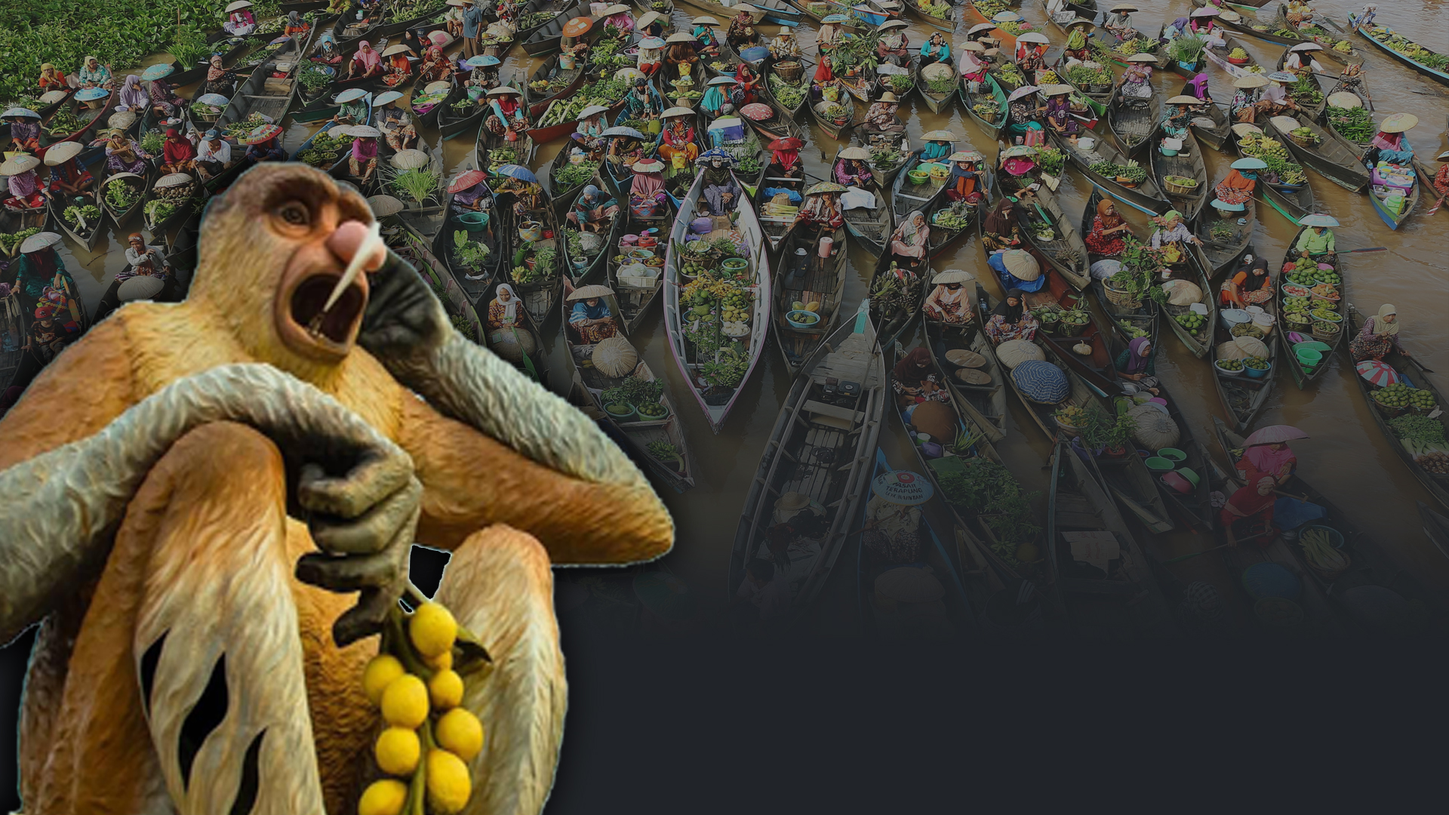
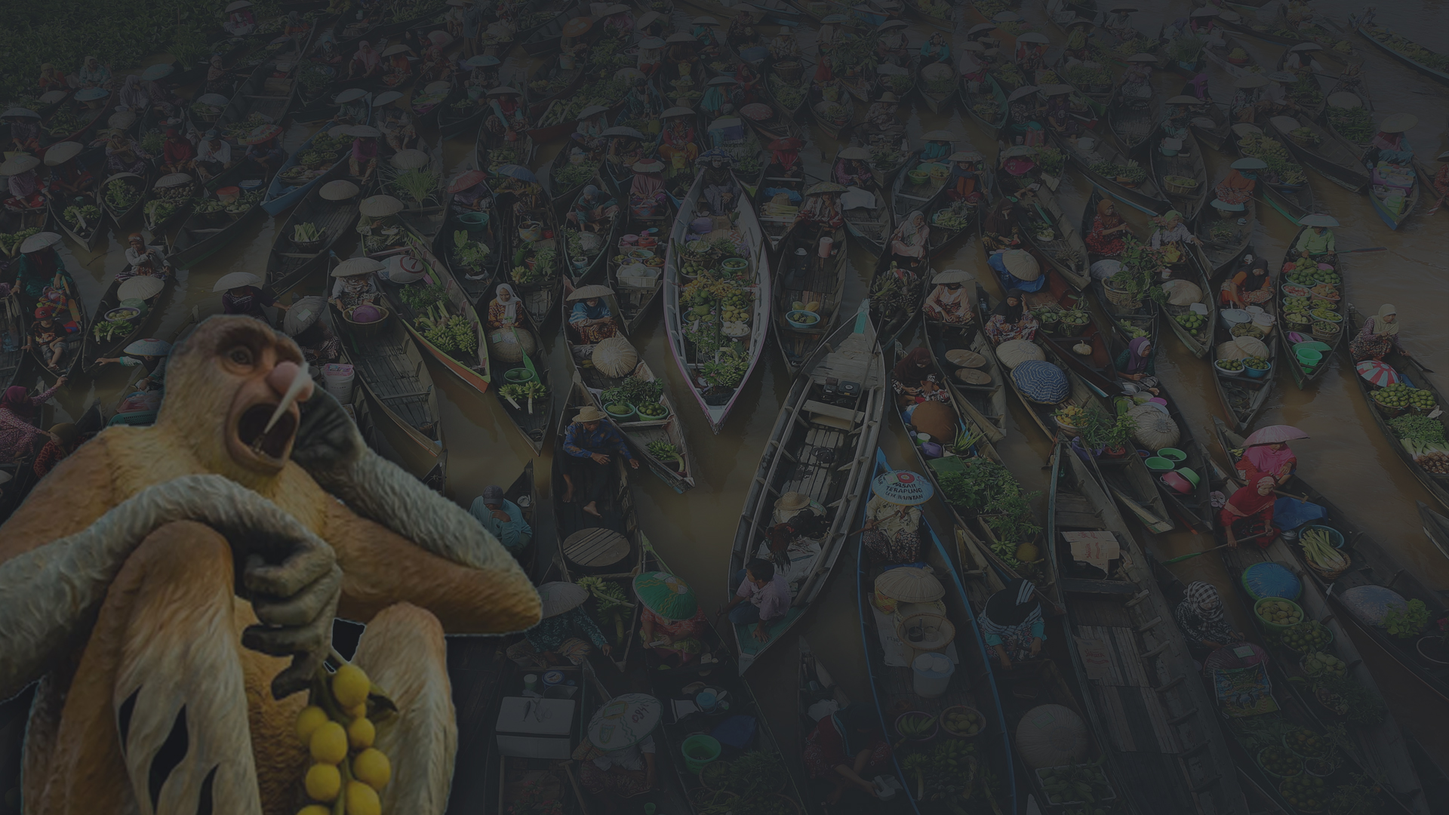
Perubahan tampilan depan

diff --git a/application/views/site/gigaland/home.php b/application/views/site/gigaland/home.php
@@ -63,9 +63,6 @@
                                     <li>
                                         <a href="#event" style="color:#F4AD39;">Event<span></span></a>
                                     </li>
-                                    <li>
-                                        <a href="#abstract" style="color:#F4AD39;">Abstract<span></span></a>
-                                    </li>
 
                                 </ul>
                                 <!-- mainmenu close -->
@@ -84,7 +81,7 @@
     <!-- content begin -->
     <div class="no-bottom no-top" id="content">
         <div id="top"></div>
-        <section id="section-hero" class="no-bottom" data-bgimage="url(<?= base_url('themes/gigaland'); ?>/images/background/13-1.jpg) bottom">
+        <section id="section-hero" class="no-bottom" data-bgimage="url(<?= base_url('themes/gigaland'); ?>/images/background/13.jpg) bottom">
             <div class="container" style="height: 800px;">
                 <div id="items-carousel-big" class="owl-carousel">
                     <!-- carousel item -->
@@ -92,10 +89,14 @@
                         <div class="row align-items-center">
                             <div class="col-lg-12 wow fadeInRight" data-wow-delay=".5s">
                                 <div class="d-desc text-center">
-                                    <img style="text-align: center;" src="<?= base_url('themes/gigaland'); ?>/images/all-logo.png" style="width:600px;" alt="">
-                                    <h1 style="color:#F4AD39; text-shadow: 3px 2px 1px black;">20<sup>th</sup> Asian Oceanian Myology Center Meeting in Conjunction with National Scientific Meeting PERDOSSI 2022</h1><br>
-
-                                    <a href="<?= base_url('themes/gigaland'); ?>/images/1staomcpin.pdf" target="blank" class="btn-main btn-lg" style="background-color:#F4AD39; color:black;">1 <sup>st</sup> Announcement</a>&nbsp;
+                                    <img style="text-align: center;" src="<?= base_url('themes/gigaland'); ?>/images/all-logo.png" style="width:800px;" alt="">
+                                    <div class="col-md-12">
+                                        <h2 style="color:#F4AD39; text-shadow: 3px 2px 1px black;">20<sup>th</sup> Asian Oceanian Myology Center Meeting in Conjunction with National Scientific Meeting <br>
+                                            PERDOSSI 2022<br>
+                                        </h2>
+                                        <p style="color:#F4AD39; text-shadow: 3px 2px 1px black; font-size: 25px;">June 9<sup>th</sup> - 12<sup>th</sup> , 2022 Virtual Meeting</p>
+                                    </div>
+                                    <a href="<?= base_url('themes/gigaland'); ?>/images/1staomcpin.pdf" target="blank" class="btn-main btn-lg" style="background-color:#F4AD39; color:black;">Download 1 <sup>st</sup> Announcement here</a>&nbsp;
                                     <div class="spacer-10">
                                         <div class="d-buttons">
 
@@ -323,12 +324,12 @@
                         <h1 style="color:#F4AD39; margin-top:10px;">How to Register</h1>
                         <td>
                             <p class="" style="color:#F4AD39; font-size:14px; text-align:left;">
-                                1. Click <b>Register</b>, and fill your profile <br>
-                                2. Choose you event(and or submit your abstract)<br>
-                                3. Pay via our online banking payment<br>
-                                4. Download your registration proof, and See your<br>
-                                <li style="color:#F4AD39; text-align:left; font-size:14px;">1 Account 1 email per user</li>
-                                <li style="color:#F4AD39; text-align:left; font-size:14px;">E-Certificate will be delivered to registered email</li><br>
+                                1. Click <b>Register</b>, and fill in your profile <br>
+                                2. Choose your event (and or submit your abstract)<br>
+                                3. Pay via our online payment gateway<br>
+                                4. Download your registration receipt, and See you on the date<br>
+                                <li style="color:#F4AD39; text-align:left; font-size:14px;">1 email per account</li>
+                                <li style="color:#F4AD39; text-align:left; font-size:14px;">E-certificate will be sent to the registered email</li><br>
                                 <a href="<?= base_url('member/register'); ?>" class="btn-main btn-fullwidth" style="background-color:#F4AD39; color:black;"><b>Don't have account? Click Here to Register</b></a>
                             </p>
                         </td>
@@ -356,12 +357,12 @@
                             </li>
                             <li class="nav-item mt-2" data-aos="fade-up" data-aos-delay="100">
                                 <a class="nav-link" data-bs-toggle="tab" href="#tab-3">
-                                    <h4 style="color:#F4AD39;">Scientific Template : Abstract Template, Fullpaper Template, and PPT Template, also Guideline</h4>
+                                    <h4 style="color:#F4AD39;">Scientific Guideline</h4>
                                 </a>
                             </li>
                             <li class="nav-item mt-2" data-aos="fade-up" data-aos-delay="100">
                                 <a class="nav-link" data-bs-toggle="tab" href="#tab-4">
-                                    <h4 style="color:#F4AD39;">Remarks Chairman of the committee</h4>
+                                    <h4 style="color:#F4AD39;">Remarks from Chairmans </h4>
                                 </a>
                             </li>
                             <li class="nav-item mt-2" data-aos="fade-up" data-aos-delay="100">
@@ -383,7 +384,36 @@
                                 <figure>
                                     <div class="col-lg-12 col-md-6 footer-links text-left">
                                         <h4>FAQ</h4>
-
+                                        <ul style="text-align: justify;">
+                                            <li>
+                                                Is this conference held online or offline?<br>
+                                                - This conference will be held online using Zoom Application.
+                                            </li>
+                                            <li>
+                                                How to login?<br>
+                                                - Login using the user email that has been registered on the web https://aomc-pinbanjarmasin2022.com/ and passwords respectively.
+                                            </li>
+                                            <li>
+                                                What if I forget my password?<br>
+                                                - If you forget your password, please click the “Forgot Password section on the login page, and enter your registered email, then click Reset. The new password will be sent to the email that was entered during the reset process. Or you can also just click:
+                                            </li>
+                                            <li>
+                                                Where is the zoom link?<br>
+                                                - The event link is available in the “Webinar Links” section of the Member Area page, to the left of the page. https://aomc-pinbanjarmasin2022.com/
+                                            </li>
+                                            <li>
+                                                What if I enter the wrong user's email?<br>
+                                                - Please search in your email inbox, with keywords: to find out your username notification
+                                            </li>
+                                            <li>
+                                                I was registered by the sponsor, what should I do to login?<br>
+                                                - Please contact your sponsor directly for your account information.
+                                            </li>
+                                            <li>
+                                                I am not a participant in this event, but I am a speaker/moderator/judge at this event, how do I login?<br>
+                                                - For speakers, moderators and judges, we have sent account access autogenerated to your doctor's email. Please check your inbox/spam and try to access our website with that account.
+                                            </li>
+                                        </ul>
                                     </div>
                                 </figure>
                             </div>
@@ -391,7 +421,7 @@
                             <div class="tab-pane" id="tab-3">
                                 <figure>
                                     <div class="col-lg-12 col-md-6 footer-links text-left">
-                                        <h4>Scientific Template : Abstract Template, Fullpaper Template, and PPT Template, also Guidline</h4>
+                                        <h4>Scientific Guideline</h4>
 
                                     </div>
                                 </figure>
@@ -423,7 +453,7 @@
     <section id="cp" class="pt30 pb30">
         <div class="container">
             <div class="col-lg-12">
-                <h2 class="style-2 wow fadeInRight" data-wow-delay=".5s" style="color:#F4AD39;">Contact Person AOMC</h2>
+                <h2 class="style-2 wow fadeInRight" data-wow-delay=".5s" style="color:#F4AD39;">Contact Person for 20th AOMC Event</h2>
             </div>
             <div class="row wow fadeInRight" data-wow-delay=".5s">
                 <div class="col-lg-3 col-md-6 mb-sm-30 text-center">
@@ -477,7 +507,7 @@
             </div>
             <hr>
             <div class="col-lg-12">
-                <h2 class="style-2 wow fadeInRight" data-wow-delay=".5s" style="color:#F4AD39;">Contact Person for PIN</h2>
+                <h2 class="style-2 wow fadeInRight" data-wow-delay=".5s" style="color:#F4AD39;">Contact Person for PIN Banjarmasin 2022</h2>
             </div>
             <div class="row wow fadeInRight" data-wow-delay=".5s">
                 <div class="col-lg-3 col-md-6 mb-sm-30 text-center">
@@ -495,10 +525,10 @@
                     <div class="feature-box f-boxed style-3" style="height: 500px;">
                         <img src="<?= base_url('themes/gigaland'); ?>/images/helpdesk4.png" class="lazy img-fluid" alt="">
                         <div class="text">
-                            <h3 class="wow fadeInUp" data-wow-delay=".25s" style="color:#F4AD39;">Margaret, MD</h3>
+                            <h3 class="wow fadeInUp" data-wow-delay=".25s" style="color:#F4AD39;">Margaret, MD, Neurologist</h3>
                         </div>
                         <p class="wow fadeInUp" data-wow-delay=".25s" style="color:#F4AD39; font-size:15px;">(Scientific Affair)</p>
-                        <a target="blank" href="https://wa.me/628179400579"><i class="fa fa-whatsapp" style="background-color:#F4AD39; color:black;"></i></a><br>
+                        <a target="blank" href="https://wa.me/6285249999911"><i class="fa fa-whatsapp" style="background-color:#F4AD39; color:black;"></i></a><br>
                         <p class="wow fadeInUp" data-wow-delay=".25s" style="color:#F4AD39; font-size:14px;">scientific@aomc-pinbanjarmasin2022.com</p>
                     </div>
                 </div>
@@ -506,7 +536,7 @@
                     <div class="feature-box f-boxed style-3" style="height: 500px;">
                         <img src="<?= base_url('themes/gigaland'); ?>/images/helpdesk7.png" class="lazy img-fluid" alt="">
                         <div class="text">
-                            <h3 class="wow fadeInUp" data-wow-delay=".25s" style="color:#F4AD39;">Fachrurrazy, MD</h3>
+                            <h3 class="wow fadeInUp" data-wow-delay=".25s" style="color:#F4AD39;">Fachrurrazy, MD, Neurologist</h3>
                         </div>
                         <p class="wow fadeInUp" data-wow-delay=".25s" style="color:#F4AD39; font-size:15px;">(Scientific Affair)</p>
                         <a target="blank" href="https://wa.me/628179400579"><i class="fa fa-whatsapp" style="background-color:#F4AD39; color:black;"></i></a><br>
@@ -517,7 +547,7 @@
                     <div class="feature-box f-boxed style-3" style="height: 500px;">
                         <img src="<?= base_url('themes/gigaland'); ?>/images/helpdesk5.png" class="lazy img-fluid" alt="">
                         <div class="text">
-                            <h3 class="wow fadeInUp" data-wow-delay=".25s" style="color:#F4AD39; font-size:16px;">Asnelia Devicaesaria, MD</h3>
+                            <h3 class="wow fadeInUp" data-wow-delay=".25s" style="color:#F4AD39; font-size:16px;">Asnelia Devicaesaria, MD, Neurologist</h3>
                         </div>
                         <p class="wow fadeInUp" data-wow-delay=".25s" style="color:#F4AD39; font: size 15px;">(Sponsorship Affair)</p>
                         <a target="blank" href="https://wa.me/6285888885010"><i class="fa fa-whatsapp" style="background-color:#F4AD39; color:black;"></i></a><br>
@@ -656,17 +686,9 @@
             <div class="row">
                 <div class="col-md-3 col-sm-6 col-xs-1">
                     <div class="widget">
-                        <h5 style="color:#F4AD39;">AOMC</h5>
+                        <h5 style="color:#F4AD39;">Important Dates</h5>
                         <ul>
-                            <li><u href="#">Contact Person</u></li>
-                            <li><a href="https://wa.me/6285163683209" target="blank">Rida Sieseria, MD : 085163683209 (Registration and Information)</a></li>
-                            <li><a href="#" target="blank">Email : admin@aomc-pinbanjarmasin2022.com</a></li>
-                            <hr>
-                            <li><a href="https://wa.me/628179400579" target="blank">Fachrurrazy, MD : 08179400579 (Scientific Affair)</a></li>
-                            <li><a href="#" target="blank">Email : scientific@aomc-pinbanjarmasin2022.com</a></li>
-                            <hr>
-                            <li><a href="https://wa.me/6285888885010" target="blank">Asnelia Devicaesaria, MD : 085888885010 (Sponsorship Affair)</a></li>
-                            <li><a href="#" target="blank">Email : sponsor@aomc-pinbanjarmasin2022.com</a></li>
+                            <li><u href="#">To be announced</u></li>
                         </ul>
                     </div>
                 </div>
@@ -674,10 +696,10 @@
                     <div class="widget">
                         <h5 style="color:#F4AD39;">Registration Fee</h5>
                         <ul>
-                            <li><b href="#"><u>Domestic Participant (IDR):</u></b></li>
+                            <li><b href="#"><u>Indonesian Participant (IDR):</u></b></li>
                             <li><a href="#">- Participant</a></li>
-                            <li><a href="#">1. Specialist : Rp. 1.000.000(Early Bird) / Rp. 1.250.000(After 16 May 22)</a></li>
-                            <li><a href="#">2. General Practioner : Rp. 500.000(Early Bird) / Rp. 700.000(After 16 May 22)</a></li>
+                            <li><a href="#">1. Specialist : Rp. 1.000.000 (Early Bird) / Rp. 1.250.000 (After 16 May 22)</a></li>
+                            <li><a href="#">2. General Practitioner : Rp. 500.000 (Early Bird) / Rp. 700.000 (After 16 May 22)</a></li>
                             <li><a href="#">3. Resident : Rp. 500.000(Early Bird) / Rp. 700.000(After 16 May 22)</a></li>
                         </ul>
                     </div>
@@ -686,10 +708,10 @@
                     <div class="widget">
                         <h5 style="color:#F4AD39;">Registration Fee</h5>
                         <ul>
-                            <li><b href="#"><u>International Participant ($US):</u></b></li>
+                            <li><b href="#"><u>International Participant (USD):</u></b></li>
                             <li><a href="#">- Participant</a></li>
-                            <li><a href="#">1. Specialist : $50(Early Bird) / $70(After 16 May 22)</a></li>
-                            <li><a href="#">2. Trainee : $35(Early Bird) / $50(After 16 May 22)</a></li>
+                            <li><a href="#">1. Specialist : $50 (Early Bird) / $70 (After 16 May 22)</a></li>
+                            <li><a href="#">2. Trainee : $35 (Early Bird) / $50 (After 16 May 22)</a></li>
 
                         </ul>
                     </div>
@@ -700,7 +722,7 @@
                         <p>Note : <br>
                             - Workshop / Teaching Course participant must be registered as symposium participant<br>
                             - All registration fee should be paid by payment gateway in our
-                            website: <a href="www.aomc-pinbanjarmasin2022.com">www.aomc-pinbanjarmasin2022.com</a>
+                            website: <a href="https://aomc-pinbanjarmasin2022.com">www.aomc-pinbanjarmasin2022.com</a>
                         </p>
                     </div>
                 </div>
@@ -713,7 +735,7 @@
                         <div class="de-flex">
                             <div class="de-flex-col">
                                 <a href="03_grey-index.html">
-                                    <span class="copy" style="color:#F4AD39;">&copy; Copyright 2022 - Annual Scientific Meeting AOMC</span>
+                                    <span class="copy" style="color:#F4AD39;">&copy; Copyright - 20th AOMC and PIN 2022 </span>
                                 </a>
                             </div>
                             <div class="de-flex-col">

diff --git a/application/views/layouts/gigaland.php b/application/views/layouts/gigaland.php
@@ -123,10 +123,6 @@ $theme_path = base_url("themes/gigaland") . "/";
                                         <li>
                                             <a href="<?= $isHome ? '' : base_url('site/home'); ?>#event" style="color:#F4AD39;">Event<span></span></a>
                                         </li>
-                                        <li>
-                                            <a href="<?= $isHome ? '' : base_url('site/home'); ?>#abstract" style="color:#F4AD39;">Abstract<span></span></a>
-                                        </li>
-
                                     </ul>
                                     <!-- mainmenu close -->
                                     <div class="menu_side_area">
@@ -155,17 +151,9 @@ $theme_path = base_url("themes/gigaland") . "/";
             <div class="row" style="background-size: cover;">
                 <div class="col-md-3 col-sm-6 col-xs-1" style="background-size: cover;">
                     <div class="widget" style="background-size: cover;">
-                        <h5 style="color:#F4AD39;">AOMC</h5>
+                        <h5 style="color:#F4AD39;">Important Dates</h5>
                         <ul>
-                            <li><u href="#">Contact Person</u></li>
-                            <li><a href="https://wa.me/6285163683209" target="blank">Rida Sieseria, MD : 085163683209 (Registration and Information)</a></li>
-                            <li><a href="#" target="blank">Email : admin@aomc-pinbanjarmasin2022.com</a></li>
-                            <hr>
-                            <li><a href="https://wa.me/628179400579" target="blank">Fachrurrazy, MD : 08179400579 (Scientific Affair)</a></li>
-                            <li><a href="#" target="blank">Email : scientific@aomc-pinbanjarmasin2022.com</a></li>
-                            <hr>
-                            <li><a href="https://wa.me/6285888885010" target="blank">Asnelia Devicaesaria, MD : 085888885010 (Sponsorship Affair)</a></li>
-                            <li><a href="#" target="blank">Email : sponsor@aomc-pinbanjarmasin2022.com</a></li>
+                            <li><u href="#">To be announced</u></li>
                         </ul>
                     </div>
                 </div>
@@ -173,11 +161,11 @@ $theme_path = base_url("themes/gigaland") . "/";
                     <div class="widget" style="background-size: cover;">
                         <h5 style="color:#F4AD39;">Registration Fee</h5>
                         <ul>
-                            <li><b href="#"><u>Domestic Participant (IDR):</u></b></li>
+                            <li><b href="#"><u>Indonesian Participant (IDR):</u></b></li>
                             <li><a href="#">- Participant</a></li>
-                            <li><a href="#">1. Specialist : Rp. 1.000.000(Early Bird) / Rp. 1.250.000(After 16 May 22)</a></li>
-                            <li><a href="#">2. General Practioner : Rp. 500.000(Early Bird) / Rp. 700.000(After 16 May 22)</a></li>
-                            <li><a href="#">3. Resident : Rp. 500.000(Early Bird) / Rp. 700.000(After 16 May 22)</a></li>
+                            <li><a href="#">1. Specialist : Rp. 1.000.000 (Early Bird) / Rp. 1.250.000 (After 16 May 22)</a></li>
+                            <li><a href="#">2. General Practioner : Rp. 500.000 (Early Bird) / Rp. 700.000 (After 16 May 22)</a></li>
+                            <li><a href="#">3. Resident : Rp. 500.000 (Early Bird) / Rp. 700.000 (After 16 May 22)</a></li>
                         </ul>
                     </div>
                 </div>
@@ -185,11 +173,10 @@ $theme_path = base_url("themes/gigaland") . "/";
                     <div class="widget" style="background-size: cover;">
                         <h5 style="color:#F4AD39;">Registration Fee</h5>
                         <ul>
-                            <li><b href="#"><u>International Participant ($US):</u></b></li>
+                            <li><b href="#"><u>International Participant (USD):</u></b></li>
                             <li><a href="#">- Participant</a></li>
-                            <li><a href="#">1. Specialist : $50(Early Bird) / $70(After 16 May 22)</a></li>
-                            <li><a href="#">2. Trainee : $35(Early Bird) / $50(After 16 May 22)</a></li>
-
+                            <li><a href="#">1. Specialist : $50 (Early Bird) / $70 (After 16 May 22)</a></li>
+                            <li><a href="#">2. Trainee : $35 (Early Bird) / $50 (After 16 May 22)</a></li>
                         </ul>
                     </div>
                 </div>
@@ -199,7 +186,7 @@ $theme_path = base_url("themes/gigaland") . "/";
                         <p>Note : <br>
                             - Workshop / Teaching Course participant must be registered as symposium participant<br>
                             - All registration fee should be paid by payment gateway in our
-                            website: <a href="www.aomc-pinbanjarmasin2022.com">www.aomc-pinbanjarmasin2022.com</a>
+                            website: <a href="https://aomc-pinbanjarmasin2022.com">www.aomc-pinbanjarmasin2022.com</a>
                         </p>
                     </div>
                 </div>
@@ -212,7 +199,7 @@ $theme_path = base_url("themes/gigaland") . "/";
                         <div class="de-flex" style="background-size: cover;">
                             <div class="de-flex-col" style="background-size: cover;">
                                 <a href="03_grey-index.html">
-                                    <span class="copy" style="color:#F4AD39;">© Copyright 2022 - Annual Scientific Meeting AOMC</span>
+                                    <span class="copy" style="color:#F4AD39;"> Copyright - 20th AOMC - PIN 2022</span>
                                 </a>
                             </div>
                             <div class="de-flex-col" style="background-size: cover;">

diff --git a/application/views/member/gigaland/register.php b/application/views/member/gigaland/register.php
@@ -180,7 +180,7 @@ $theme_path = base_url("themes/gigaland") . "/";
             <div v-if="page == 'register'" class="col-lg-8 offset-lg-2">
                 <div class="alert alert-success mt-2" style="background-color: #F5AC39;">
                     <h4 class="text-dark"><i class="fa fa-info"></i> <b>Attention</b></h4>
-                    <p>Make sure the email address entered is valid and you can access it because we will send an activation code via that email. Your account cannot be used until it is activated first.</p>
+                    <p class="text-dark"> <b>Make sure you enter a valid and accessible email address. A code will be sent to the entered email to activate your account.</b></p>
                 </div>
                 <form id="form-register" class="form-border" ref="form">
                     <div class="de_tab tab_simple">
@@ -236,7 +236,7 @@ $theme_path = base_url("themes/gigaland") . "/";
                                             </span>
 
                                             <h5 style="color:#F4AD39;"> Full Name*</h5>
-                                            <small>*Please fill the name completely and correctly (along with your title) for the certificate</small>
+                                            <small>*Please fill your name completely and correctly (along with your title) for the certificate</small>
                                             <input type="text" :class="{'is-invalid':validation_error.fullname}" class="form-control mb-0" name="fullname" placeholder="Full Name" />
                                             <div v-if="validation_error.fullname" class="invalid-feedback">
                                                 {{ validation_error.fullname }}
@@ -280,7 +280,7 @@ $theme_path = base_url("themes/gigaland") . "/";
 
                                             <div class="spacer-20"></div>
                                             <span class="dark-select">
-                                                <h5 style="color:#F4AD39;"> Your Institution*</h5>
+                                                <h5 style="color:#F4AD39;"> Institution / Affiliation*</h5>
                                                 <?= form_dropdown('univ', $participantsUniv, '', [':class' => "{'is-invalid':validation_error.univ}", 'v-model' => 'univ_selected', 'class' => 'form-control univ_selected chosen mb-0', 'placeholder' => 'Select your institution !']); ?>
                                                 <div v-if="validation_error.univ" class="invalid-feedback">
                                                     {{ validation_error.univ }}
@@ -299,7 +299,7 @@ $theme_path = base_url("themes/gigaland") . "/";
                                                 <div class="spacer-20"></div>
                                             </span>
 
-                                            <h5 style="color:#F4AD39;">Phone/WA*</h5>
+                                            <h5 style="color:#F4AD39;">Phone/ Whats App No*</h5>
                                             <input type="text" :class="{ 'is-invalid':validation_error.phone}" @keypress="onlyNumber" class="form-control mb-0" name="phone" placeholder="Phone/WA" />
                                             <div v-if="validation_error.phone" class="invalid-feedback">
                                                 {{ validation_error.phone }}

diff --git a/application/views/site/gigaland/index.php b/application/views/site/gigaland/index.php
@@ -47,7 +47,7 @@
                                 </div>
                                 <div class="col-lg-6 wow fadeInRight" data-wow-delay=".5s">
                                     <div class="d-desc">
-                                        <h3 style="color:#F4AD39;">20<sup>th</sup> Asian Oceanian Myology Center Meeting in Conjunction with National Scientific Meeting PERDOSSI 2022</h3><br>
+                                        <h3 style="color:#F4AD39; text-shadow: 3px 2px 1px black; ">20<sup>th</sup> Asian Oceanian Myology Center Meeting in Conjunction with National Scientific Meeting PERDOSSI Banjarmasin 2022</h3><br>
                                         <div class="row">
                                             <img src="<?= base_url('themes/gigaland'); ?>/images/logowebrev.png" style="width:100px;" alt="">
                                             <img src="<?= base_url('themes/gigaland'); ?>/images/aomccm.png" style="width:170px;" alt="">
@@ -59,8 +59,8 @@
                                         <div class="d-buttons">
                                             <!--<a href="#" class="btn-main btn-lg" style="background-color:#F4AD39; color:black;">This Site Under Maintenance</a>&nbsp;-->
 
-                                            <a href="<?= base_url('site/home'); ?>" class="btn-main btn-sm" style="background-color:#F4AD39; color:black;">Enter the Website</a>&nbsp;
-                                            <a href="<?= base_url('member/register'); ?>" class="btn-main btn-sm" style="background-color:#F4AD39; color:black;">For Registration Click Here</a>&nbsp;
+                                            <a href="<?= base_url('site/home'); ?>" class="btn-main btn-sm" style="background-color:#F4AD39; color:black;">Visit our Website here</a>&nbsp;
+                                            <a href="<?= base_url('member/register'); ?>" class="btn-main btn-sm" style="background-color:#F4AD39; color:black;">Click here For Registration</a>&nbsp;
 
                                             <!--<a href="" class="btn-main btn-lg" style="background-color:#F4AD39; color:black;">Enter</a>&nbsp;-->
                                         </div>
@@ -105,7 +105,7 @@
                         <div class="de-flex">
                             <div class="de-flex-col">
                                 <a href="index">
-                                    <span class="copy" style="color:#F4AD39;">&copy; Copyright 2022</span>
+                                    <span class="copy" style="color:#F4AD39;">&copy; Copyright - 20th AOMC and PIN 2022</span>
                                 </a>
                             </div>
                             <div class="de-flex-col">
